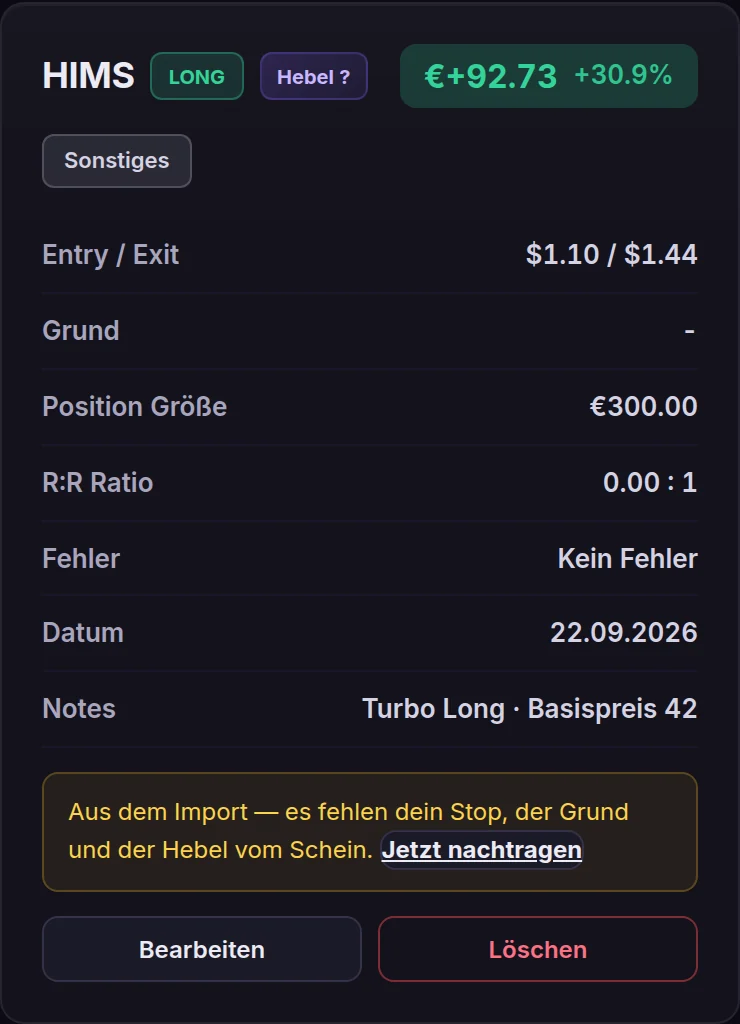
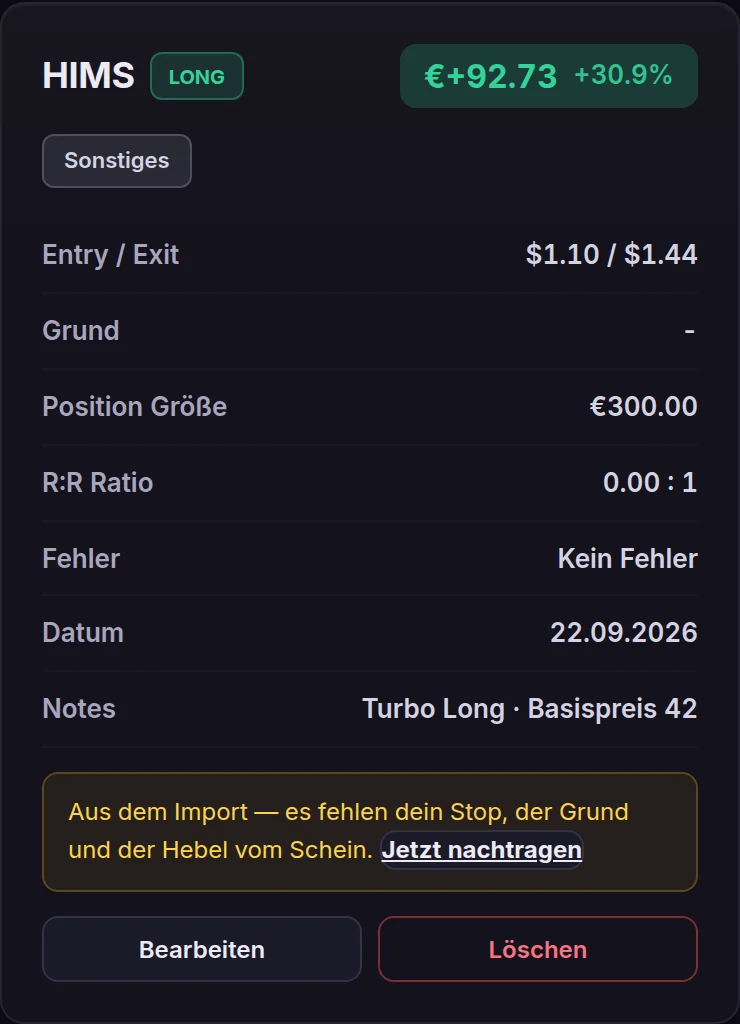
Journal-Kacheln, Hover wie frueher, Anleitung zweispaltig

Changed region(s): [[0.3419, 0.0312, 0.4973, 0.125]]

diff --git a/app.html b/app.html
@@ -567,11 +567,11 @@
                 <div class="trades-stats">
                     <div class="trades-stat-item">
                         <div class="trades-stat-label">Total P&L</div>
-                        <div id="tradesPnLDisplay" style="font-size: 28px; font-weight: 700; color: #ECEAF4;">€ 0.00</div>
+                        <div id="tradesPnLDisplay" class="trades-stat-wert">€ 0.00</div>
                     </div>
                     <div class="trades-stat-item">
                         <div class="trades-stat-label">Anzahl Trades</div>
-                        <div id="tradeCountDisplay" style="font-size: 28px; font-weight: 700; color: #ECEAF4;">0</div>
+                        <div id="tradeCountDisplay" class="trades-stat-wert">0</div>
                     </div>
                 </div>
             </div>
@@ -1082,11 +1082,13 @@
             </div>
 
             <!-- ---------- 1 ---------- -->
-            <section class="hilfe-block">
+            <section class="hilfe-block hilfe-mit-bild">
                 <div class="hilfe-kopf">
                     <span class="hilfe-nr">1</span>
                     <h3 class="hilfe-titel">Reinkommen</h3>
                 </div>
+                <div class="hilfe-spalten">
+                <div class="hilfe-inhalt">
                 <p class="hilfe-text">
                     Erst <strong>mit Discord anmelden</strong>, danach erscheint das Feld
                     für den Zugangsschlüssel. Vorher gibt es kein Konto, das
@@ -1097,22 +1099,28 @@
                     Groß- und Kleinschreibung, Bindestriche und Leerzeichen sind egal.
                     Kopier ihn einfach so rein, wie du ihn bekommen hast.
                 </p>
-                <figure class="hilfe-bild" onclick="openScreenshotModal('img/anleitung/01-schluessel.webp')" title="Vergrößern">
-                    <img src="img/anleitung/01-schluessel.webp" alt="Das Feld für den Zugangsschlüssel nach der Discord-Anmeldung" loading="lazy">
-                    <figcaption>So sieht es aus, wenn du angemeldet, aber noch nicht freigeschaltet bist.</figcaption>
-                </figure>
                 <div class="hilfe-warn">
                     Jeder Schlüssel gehört zu genau einem Discord-Konto. Einmal
                     eingelöst, funktioniert er bei niemand anderem mehr.
                 </div>
+                </div>
+                <aside class="hilfe-bilder">
+                <figure class="hilfe-bild" onclick="openScreenshotModal('img/anleitung/01-schluessel.webp')" title="Vergrößern">
+                    <img src="img/anleitung/01-schluessel.webp" alt="Das Feld für den Zugangsschlüssel nach der Discord-Anmeldung" loading="lazy">
+                    <figcaption>So sieht es aus, wenn du angemeldet, aber noch nicht freigeschaltet bist.</figcaption>
+                </figure>
+                </aside>
+                </div>
             </section>
 
             <!-- ---------- 2 ---------- -->
-            <section class="hilfe-block">
+            <section class="hilfe-block hilfe-mit-bild">
                 <div class="hilfe-kopf">
                     <span class="hilfe-nr">2</span>
                     <h3 class="hilfe-titel">Deine Trades reinholen</h3>
                 </div>
+                <div class="hilfe-spalten">
+                <div class="hilfe-inhalt">
                 <p class="hilfe-text">
                     Du musst nichts abtippen. Trade Republic gibt dir eine Datei mit
                     allem, was du gehandelt hast — die liest die App ein und baut daraus
@@ -1136,22 +1144,28 @@
                     wurden, wie viele schon da sind, was übersprungen wird.
                     <strong>Gespeichert wird nichts, bevor du auf Übernehmen gehst.</strong>
                 </p>
-                <figure class="hilfe-bild" onclick="openScreenshotModal('img/anleitung/02-import@2x.webp')" title="Vergrößern">
-                    <img src="img/anleitung/02-import.webp" alt="Der Daten-Tab mit Import, Sicherung und Löschen" loading="lazy">
-                    <figcaption>Der Daten-Tab. Hier liegt auch die Sicherung — und der Weg, alles wieder loszuwerden.</figcaption>
-                </figure>
                 <p class="hilfe-text">
                     Denselben Export kannst du jeden Monat neu einlesen. Was schon drin
                     ist, wird erkannt und übersprungen — es entstehen keine Doppelten.
                 </p>
+                </div>
+                <aside class="hilfe-bilder">
+                <figure class="hilfe-bild" onclick="openScreenshotModal('img/anleitung/02-import@2x.webp')" title="Vergrößern">
+                    <img src="img/anleitung/02-import.webp" alt="Der Daten-Tab mit Import, Sicherung und Löschen" loading="lazy">
+                    <figcaption>Der Daten-Tab. Hier liegt auch die Sicherung — und der Weg, alles wieder loszuwerden.</figcaption>
+                </figure>
+                </aside>
+                </div>
             </section>
 
             <!-- ---------- 3 ---------- -->
-            <section class="hilfe-block">
+            <section class="hilfe-block hilfe-mit-bild">
                 <div class="hilfe-kopf">
                     <span class="hilfe-nr">3</span>
                     <h3 class="hilfe-titel">Zwei Zahlen, die alles ändern</h3>
                 </div>
+                <div class="hilfe-spalten">
+                <div class="hilfe-inhalt">
                 <p class="hilfe-text">
                     Das hier ist der Teil, der CapitalFlow von einer Liste deiner Trades
                     unterscheidet — und der einzige, den du von Hand eintragen musst.
@@ -1168,15 +1182,7 @@
                     <strong>Knockout-Preis</strong> und <strong>Hebel</strong>. Aus denen
                     rechnet die App alles andere zurück.
                 </p>
-                <figure class="hilfe-bild" onclick="openScreenshotModal('img/anleitung/03-knockout@2x.webp')" title="Vergrößern">
-                    <img src="img/anleitung/03-knockout.webp" alt="Das Knock-Out-Formular im Journal mit den Feldern für Knockout-Preis, Hebel und Stop" loading="lazy">
-                    <figcaption>Produktart oben auf <em>Knock-Out</em> stellen, dann erscheint dieser Block.</figcaption>
-                </figure>
                 <p class="hilfe-text">Daraus wird, ohne dass du sonst etwas tust:</p>
-                <figure class="hilfe-bild" onclick="openScreenshotModal('img/anleitung/04-kacheln@2x.webp')" title="Vergrößern">
-                    <img src="img/anleitung/04-kacheln.webp" alt="Berechnete Kacheln: Kurs beim Kauf, echter Hebel, KO-Abstand, Risiko in Euro" loading="lazy">
-                                    <figcaption>Was die App aus zwei Zahlen rechnet</figcaption>
-                </figure>
                 <ul class="hilfe-punkte">
                     <li><strong>Kurs beim Kauf</strong> — wo der Basiswert stand. Vergleich das kurz mit deinem Chart; passt es nicht, hast du dich bei einer der beiden Zahlen vertippt.</li>
                     <li><strong>Echter Hebel</strong> — was du wirklich hattest.</li>
@@ -1187,23 +1193,33 @@
                     Alle Felder sind freiwillig. Ohne sie speichert der Trade ganz normal —
                     du bekommst dann eben ein Journal wie jedes andere.
                 </p>
+                </div>
+                <aside class="hilfe-bilder">
+                <figure class="hilfe-bild" onclick="openScreenshotModal('img/anleitung/03-knockout@2x.webp')" title="Vergrößern">
+                    <img src="img/anleitung/03-knockout.webp" alt="Das Knock-Out-Formular im Journal mit den Feldern für Knockout-Preis, Hebel und Stop" loading="lazy">
+                    <figcaption>Produktart oben auf <em>Knock-Out</em> stellen, dann erscheint dieser Block.</figcaption>
+                </figure>
+                <figure class="hilfe-bild" onclick="openScreenshotModal('img/anleitung/04-kacheln@2x.webp')" title="Vergrößern">
+                    <img src="img/anleitung/04-kacheln.webp" alt="Berechnete Kacheln: Kurs beim Kauf, echter Hebel, KO-Abstand, Risiko in Euro" loading="lazy">
+                                    <figcaption>Was die App aus zwei Zahlen rechnet</figcaption>
+                </figure>
+                </aside>
+                </div>
             </section>
 
             <!-- ---------- 4 ---------- -->
-            <section class="hilfe-block">
+            <section class="hilfe-block hilfe-mit-bild">
                 <div class="hilfe-kopf">
                     <span class="hilfe-nr">4</span>
                     <h3 class="hilfe-titel">Nachtragen, was der Import nicht wissen kann</h3>
                 </div>
+                <div class="hilfe-spalten">
+                <div class="hilfe-inhalt">
                 <p class="hilfe-text">
                     Importierte Trades haben keinen Stop, keinen Grund und keine
                     Hebelzahlen — das steht in der TR-Datei schlicht nicht drin. Solche
                     Trades sind im Journal markiert.
                 </p>
-                <figure class="hilfe-bild" onclick="openScreenshotModal('img/anleitung/05-nachtragen.webp')" title="Vergrößern">
-                    <img src="img/anleitung/05-nachtragen.webp" alt="Eine importierte Trade-Karte mit dem Hinweis, was noch fehlt" loading="lazy">
-                    <figcaption>Ein Klick auf <em>Jetzt nachtragen</em> öffnet den Trade im Formular oben.</figcaption>
-                </figure>
                 <p class="hilfe-text">
                     Sobald Stop und Grund drin sind, verschwindet der Hinweis. Bearbeiten
                     kannst du jeden Trade jederzeit, auch von Hand eingetragene — der
@@ -1214,36 +1230,48 @@
                     nach. Das ist mehr wert als alle vierzig, denn die Auswertung wird
                     erst interessant, wenn sie deine Verlierer nach Ursache sortieren kann.
                 </div>
+                </div>
+                <aside class="hilfe-bilder">
+                <figure class="hilfe-bild" onclick="openScreenshotModal('img/anleitung/05-nachtragen.webp')" title="Vergrößern">
+                    <img src="img/anleitung/05-nachtragen.webp" alt="Eine importierte Trade-Karte mit dem Hinweis, was noch fehlt" loading="lazy">
+                    <figcaption>Ein Klick auf <em>Jetzt nachtragen</em> öffnet den Trade im Formular oben.</figcaption>
+                </figure>
+                </aside>
+                </div>
             </section>
 
             <!-- ---------- 5 ---------- -->
-            <section class="hilfe-block">
+            <section class="hilfe-block hilfe-mit-bild">
                 <div class="hilfe-kopf">
                     <span class="hilfe-nr">5</span>
                     <h3 class="hilfe-titel">Eine Trade-Karte lesen</h3>
                 </div>
+                <div class="hilfe-spalten">
+                <div class="hilfe-inhalt">
+                <ul class="hilfe-punkte">
+                    <li><strong>Long / Short</strong> — Richtung. Bei einem Short-Knockout steigt der Schein, wenn der Kurs fällt; die App rechnet das richtig herum.</li>
+                    <li><strong>12×</strong> — der Hebel. Fehlt das Abzeichen bei einem Hebelprodukt, fehlen die zwei Zahlen aus Schritt 3.</li>
+                    <li><strong>KO 8,3&nbsp;%</strong> — Abstand zur Schwelle beim Einstieg. Rot ab unter 5 %.</li>
+                    <li><strong>R:R</strong> — was du gewonnen hast, geteilt durch das, was du riskiert hast. Ohne Stop steht dort 0.</li>
+                </ul>
+                </div>
+                <aside class="hilfe-bilder">
                 <figure class="hilfe-bild" onclick="openScreenshotModal('img/anleitung/06-tradekarte.webp')" title="Vergrößern">
                     <img src="img/anleitung/06-tradekarte.webp" alt="Eine vollständige Trade-Karte im Journal" loading="lazy">
                                     <figcaption>Eine Trade-Karte im Journal</figcaption>
                 </figure>
-                <ul class="hilfe-punkte">
-                    <li><strong>Long / Short</strong> — Richtung. Bei einem Short-Knockout steigt der Schein, wenn der Kurs fällt; die App rechnet das richtig herum.</li>
-                    <li><strong>12×</strong> — der Hebel. Steht dort <em>Hebel&nbsp;?</em>, fehlen die zwei Zahlen aus Schritt 3.</li>
-                    <li><strong>KO 8,3&nbsp;%</strong> — Abstand zur Schwelle beim Einstieg. Rot ab unter 5 %.</li>
-                    <li><strong>R:R</strong> — was du gewonnen hast, geteilt durch das, was du riskiert hast. Ohne Stop steht dort 0.</li>
-                </ul>
+                </aside>
+                </div>
             </section>
 
             <!-- ---------- 6 ---------- -->
-            <section class="hilfe-block">
+            <section class="hilfe-block hilfe-mit-bild">
                 <div class="hilfe-kopf">
                     <span class="hilfe-nr">6</span>
                     <h3 class="hilfe-titel">Was die Zahlen bedeuten</h3>
                 </div>
-                <figure class="hilfe-bild" onclick="openScreenshotModal('img/anleitung/07-auswertung@2x.webp')" title="Vergrößern">
-                    <img src="img/anleitung/07-auswertung.webp" alt="Der Analytics-Tab mit Trefferquote, Profit-Faktor und Erwartungswert" loading="lazy">
-                                    <figcaption>Die Kennzahlen im Analytics-Tab</figcaption>
-                </figure>
+                <div class="hilfe-spalten">
+                <div class="hilfe-inhalt">
                 <ul class="hilfe-punkte">
                     <li><strong>Win Rate</strong> — die Trefferquote: wie viele Trades im Plus waren. Sagt für sich genommen wenig. 70 % Treffer und trotzdem im Minus ist völlig normal, wenn die Verlierer größer sind als die Gewinner.</li>
                     <li><strong>Profit Factor</strong> — alle Gewinne geteilt durch alle Verluste. Über 1 verdienst du, unter 1 zahlst du drauf.</li>
@@ -1260,6 +1288,14 @@
                     guter Trade verschiebt alles. Schau sie dir an, aber bau noch keine
                     Regel darauf.
                 </div>
+                </div>
+                <aside class="hilfe-bilder">
+                <figure class="hilfe-bild" onclick="openScreenshotModal('img/anleitung/07-auswertung@2x.webp')" title="Vergrößern">
+                    <img src="img/anleitung/07-auswertung.webp" alt="Der Analytics-Tab mit Trefferquote, Profit-Faktor und Erwartungswert" loading="lazy">
+                                    <figcaption>Die Kennzahlen im Analytics-Tab</figcaption>
+                </figure>
+                </aside>
+                </div>
             </section>
 
             <!-- ---------- 7 ---------- -->
@@ -1268,6 +1304,8 @@
                     <span class="hilfe-nr">7</span>
                     <h3 class="hilfe-titel">Deine Daten</h3>
                 </div>
+                <div class="hilfe-spalten">
+                <div class="hilfe-inhalt">
                 <ul class="hilfe-punkte">
                     <li><strong>Sicherung</strong> — eine Datei mit allem, was dir gehört. Zieh sie dir, bevor du etwas Größeres änderst.</li>
                     <li><strong>Nur Import löschen</strong> — nimmt alles zurück, was aus einer CSV kam. Von Hand eingetragene Trades bleiben.</li>
@@ -1282,6 +1320,8 @@
                     Etwas funktioniert nicht, eine Zahl sieht falsch aus, ein Wort ist
                     unverständlich? Sag Bescheid. Die meisten Fehler dieser App wurden
                     gefunden, weil jemand gesagt hat &bdquo;das kann so nicht stimmen&ldquo;.
+                </div>
+                </div>
                 </div>
             </section>
         </div>

diff --git a/css/thema.css b/css/thema.css
@@ -131,7 +131,7 @@ input, select, textarea, button { font-family: inherit; }
 .aus-karte, .daten-karte, .admin-karte, .admin-section, .hilfe-block, .form-section,
 .portfolio-summary, .summary-item, .zert-block, .newkey-card, .start-kasten,
 .roadmap-card-premium, .completed-card, .in-progress-card, .planned-card,
-.trades-stats, .equity-section, .dir-card, .zert-kachel, .admin-key-karte, .bereich-sperre-karte {
+.equity-section, .dir-card, .zert-kachel, .admin-key-karte, .bereich-sperre-karte {
     background: linear-gradient(180deg, rgba(255, 255, 255, 0.02), transparent 120px), var(--cf-karte) !important;
     border: 1px solid var(--cf-rand) !important;
     border-radius: var(--cf-r-3) !important;
@@ -139,26 +139,35 @@ input, select, textarea, button { font-family: inherit; }
     backdrop-filter: none !important;
     -webkit-backdrop-filter: none !important;
 }
-.dashboard-stat:hover, .top-stat:hover, .dashboard-section:hover, .dashboard-card:hover,
-.analytics-metric-card:hover, .analytics-metric-card-small:hover, .premium-stat-card:hover,
-.trade-card:hover, .position-card:hover, .setups-card:hover, .aus-karte:hover,
-.roadmap-card-premium:hover, .completed-card:hover, .in-progress-card:hover, .planned-card:hover,
-.dir-card:hover, .zert-kachel:hover, .summary-item:hover, .daily-summary-card:hover {
+/* Hover wie im alten Design (Werte 1:1 aus der alten style.css):
+   grosse Karten heben sich 4 px, kleine 2 px, dazu weicher violetter
+   Schein und violetter Rand. */
+.dashboard-big-card:hover, .dashboard-section:hover, .dashboard-stat:hover, .top-stat:hover,
+.analytics-metric-card:hover, .premium-stat-card:hover, .trade-card:hover, .position-card:hover,
+.setups-card:hover, .aus-karte:hover, .dir-card:hover, .daily-summary-card:hover, .trades-stat-item:hover,
+.roadmap-card-premium:hover, .completed-card:hover, .in-progress-card:hover, .planned-card:hover {
+    transform: translateY(-4px) !important;
+    border-color: rgba(168, 85, 247, 0.4) !important;
+    box-shadow: inset 0 1px 0 var(--cf-schimmer), 0 30px 80px rgba(168, 85, 247, 0.15) !important;
+}
+.dashboard-card:hover, .analytics-metric-card-small:hover, .zert-kachel:hover, .summary-item:hover {
     transform: translateY(-2px) !important;
-    border-color: rgba(139, 108, 243, 0.45) !important;
-    box-shadow: inset 0 1px 0 var(--cf-schimmer), 0 14px 34px -16px rgba(124, 92, 240, 0.55) !important;
+    border-color: rgba(168, 85, 247, 0.3) !important;
+    box-shadow: inset 0 1px 0 var(--cf-schimmer), 0 15px 40px rgba(168, 85, 247, 0.1) !important;
 }
 .dashboard-stat, .top-stat, .dashboard-section, .dashboard-card, .dashboard-big-card,
 .analytics-metric-card, .analytics-metric-card-small, .premium-stat-card, .trade-card, .position-card,
-.setups-card, .aus-karte, .dir-card, .zert-kachel, .summary-item, .daily-summary-card,
+.setups-card, .aus-karte, .dir-card, .zert-kachel, .summary-item, .daily-summary-card, .trades-stat-item,
 .roadmap-card-premium, .completed-card, .in-progress-card, .planned-card {
-    transition: transform 0.2s ease, border-color 0.2s ease, box-shadow 0.2s ease !important;
+    transition: all 0.3s ease !important;
 }
 @media (prefers-reduced-motion: reduce) {
-    .dashboard-stat:hover, .top-stat:hover, .dashboard-section:hover, .dashboard-card:hover,
+    .dashboard-big-card:hover, .dashboard-stat:hover, .top-stat:hover, .dashboard-section:hover, .dashboard-card:hover,
     .analytics-metric-card:hover, .analytics-metric-card-small:hover, .trade-card:hover, .position-card:hover,
-    .setups-card:hover, .aus-karte:hover, .dir-card:hover { transform: none !important; }
+    .setups-card:hover, .aus-karte:hover, .dir-card:hover, .trades-stat-item:hover { transform: none !important; }
 }
+/* Grossansicht: die Karte darin bewegt sich nicht */
+.cf-gross-inhalt:hover { transform: none !important; }
 /* Kennzahl-Karten: feine Markenlinie an der Oberkante */
 .dashboard-stat, .top-stat, .dashboard-big-card, .dashboard-card, .analytics-metric-card, .analytics-metric-card-small, .premium-stat-card, .summary-item {
     background:
@@ -492,4 +501,61 @@ dialog.cf-gross {
 @media (max-width: 640px) {
     .cf-gross-inhalt { padding: 4px 16px 20px !important; }
     .cf-gross-diagramm { height: 50vh; }
+}
+
+/* ------------------------------------------------------------ Anleitung
+   Text links, Bild rechts statt alles untereinander: halb so lang,
+   und das Bild steht neben dem Text, der es erklaert. */
+#anleitung { max-width: 1160px !important; }
+.hilfe-spalten {
+    display: grid;
+    grid-template-columns: minmax(0, 1.1fr) minmax(0, 1fr);
+    gap: 32px;
+    align-items: start;
+}
+.hilfe-block:not(.hilfe-mit-bild) .hilfe-spalten { grid-template-columns: minmax(0, 1fr); }
+.hilfe-block:not(.hilfe-mit-bild) .hilfe-inhalt { max-width: 72ch; }
+.hilfe-bilder {
+    display: flex;
+    flex-direction: column;
+    gap: 16px;
+    position: sticky;
+    top: 96px;
+}
+.hilfe-bilder .hilfe-bild { max-width: none !important; width: 100%; margin: 0 !important; }
+.hilfe-inhalt > :first-child { margin-top: 0; }
+@media (max-width: 980px) {
+    .hilfe-spalten { grid-template-columns: minmax(0, 1fr); gap: 16px; }
+    .hilfe-bilder { position: static; }
+}
+
+/* ------------------------------------------------------------ Journal: Summe und Anzahl
+   Zwei Kacheln wie die Kennzahlen auf dem Dashboard statt zwei rechtsbuendiger
+   Zahlen unter Ueberschriften, die nicht ueber ihren Werten standen. */
+.trades-header { align-items: flex-end !important; gap: 16px; flex-wrap: wrap; }
+.trades-stats {
+    display: flex !important;
+    gap: 12px !important;
+    background: none !important;
+    border: 0 !important;
+    box-shadow: none !important;
+    padding: 0 !important;
+}
+.trades-stat-item {
+    min-width: 150px;
+    padding: 12px 18px 14px;
+    text-align: left !important;
+    border: 1px solid var(--cf-rand);
+    border-radius: var(--cf-r-3);
+    background:
+        linear-gradient(90deg, rgba(168, 85, 247, 0.75), rgba(236, 72, 153, 0.45) 55%, transparent 90%) top left / 100% 2px no-repeat,
+        linear-gradient(180deg, rgba(124, 92, 240, 0.06), transparent 80px),
+        var(--cf-karte);
+    box-shadow: inset 0 1px 0 var(--cf-schimmer);
+}
+.trades-stat-label { margin-bottom: 4px !important; font-weight: 500 !important; font-size: 12px; color: var(--cf-text-2) !important; }
+.trades-stat-wert { font-size: 24px; font-weight: 700; line-height: 1.2; letter-spacing: -0.02em; color: #C9B8FF; font-variant-numeric: tabular-nums; white-space: nowrap; }
+@media (max-width: 640px) {
+    .trades-stats { width: 100%; flex-direction: row !important; }
+    .trades-stat-item { flex: 1 1 0; min-width: 0; }
 }

diff --git a/js/app.js b/js/app.js
@@ -1304,16 +1304,13 @@ function istHebelTrade(t) {
     return Boolean(t && parseFloat(t.leverage) > 1);
 }
 
-/** Abzeichen fuer den Hebel - mit Fragezeichen, wenn er nicht bekannt ist. */
+/** Abzeichen fuer den Hebel - nur, wenn er bekannt ist. */
 function hebelBadge(t) {
     const lev = parseFloat(t && t.leverage);
     if (lev > 1) return '<span class="trade-leverage-badge">'
         + formatLeverage(lev) + '</span>';
-    if (istHebelTrade(t)) {
-        return '<span class="trade-leverage-badge" title="Hebel unbekannt — '
-            + 'die TR-Datei nennt den Kurs des Basiswerts nicht. '
-            + 'Trag ihn nach, dann wird er gerechnet.">Hebel ?</span>';
-    }
+    // Unbekannter Hebel: kein Abzeichen. Ein lila "Hebel ?" auf jeder
+    // importierten Karte war Laerm - wo er fehlt, sagt der Nachtragen-Hinweis.
     return '';
 }
 

diff --git a/sw.js b/sw.js
@@ -10,7 +10,7 @@
  * Bei jedem Release CACHE_VERSION hochzaehlen.
  */
 
-const CACHE_VERSION = 'cf-v56';
+const CACHE_VERSION = 'cf-v57';
 const CACHE_APP = CACHE_VERSION + '-app';
 const CACHE_ASSETS = CACHE_VERSION + '-assets';
 
